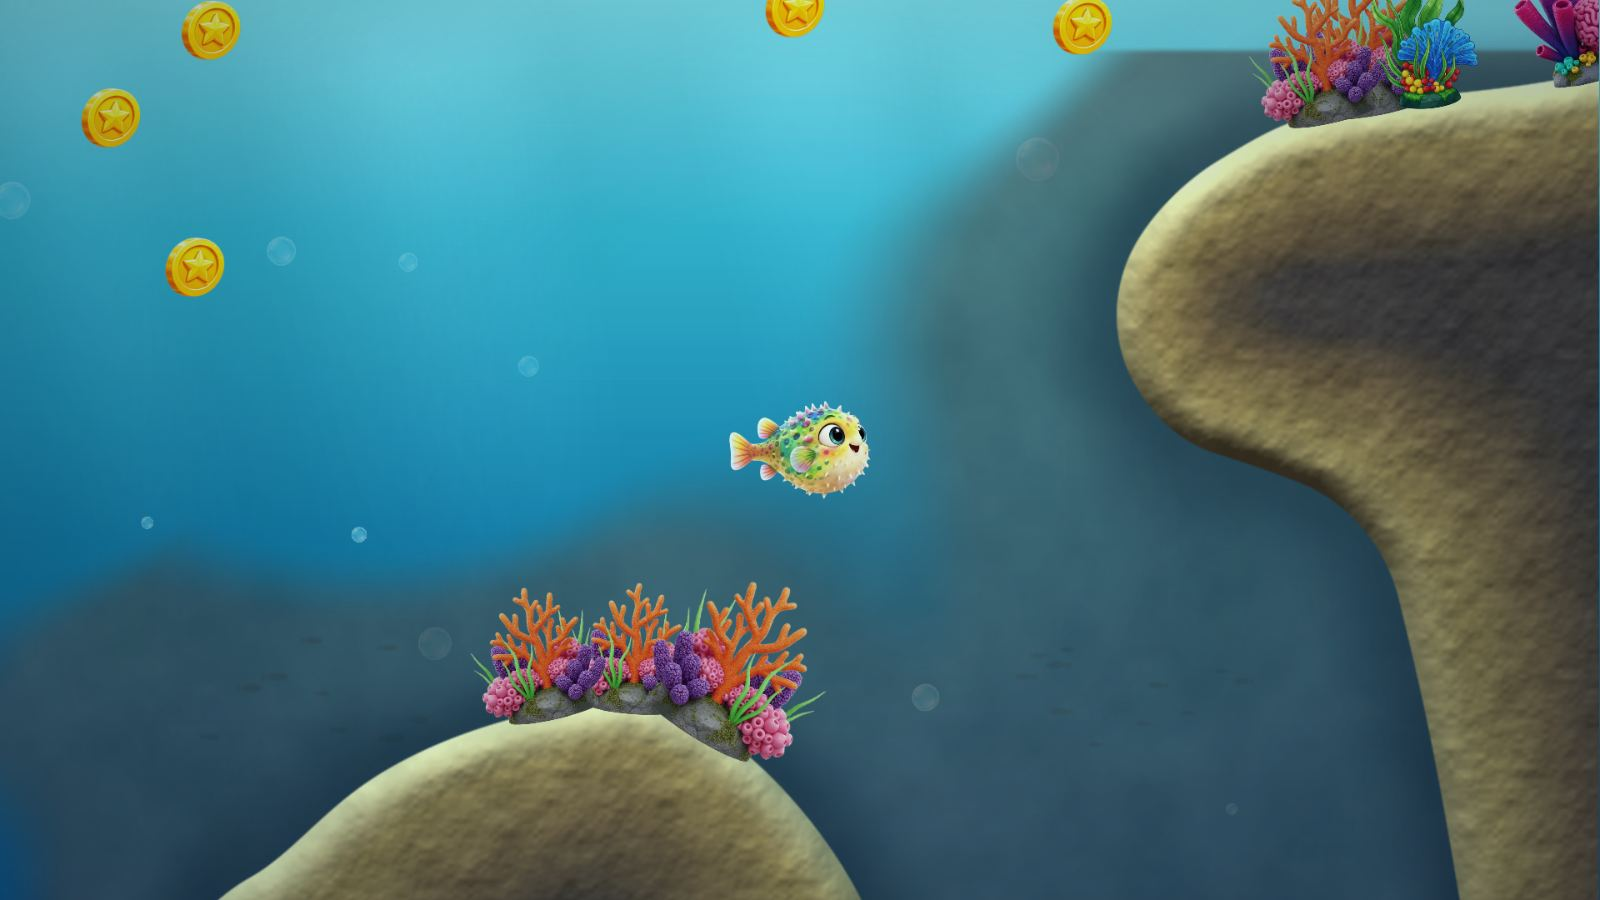
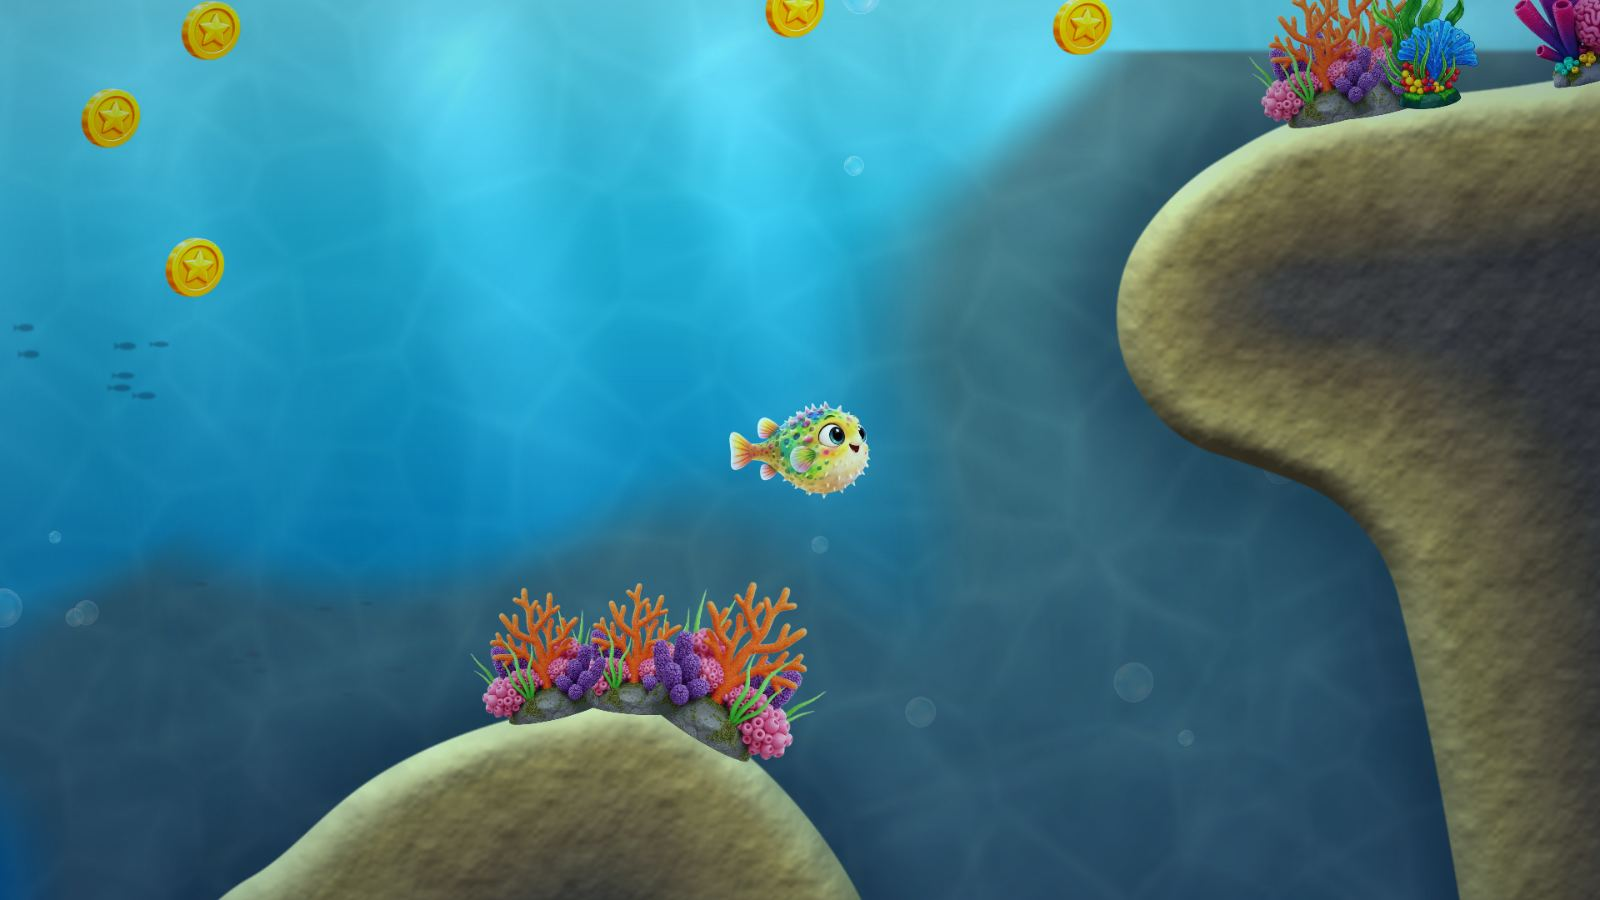
Water light: stronger sunlit shafts, caustics and a depth colour grade as one system

diff --git a/game/fx/WaterLight.js b/game/fx/WaterLight.js
@@ -1,0 +1,150 @@
+import Phaser from 'phaser';
+import { causticPattern, sunlightAt, gradeMatrix } from './causticsMath.js';
+
+/**
+ * Sunlight under water — one system for light shafts, caustics and the colour grade
+ * (gamedesign 1.1 #5, 10.11). Plain textured quads plus one camera ColorMatrix, so it
+ * runs the same on Phaser 3.90 and 4; nothing is redrawn per frame and nothing touches
+ * the HUD scene. Everything fades with depth (sunlightAt). Each effect reads one
+ * constant here: 0 switches it off.
+ *
+ *   create():  this.waterLight = new WaterLight(this)
+ *   update():  this.waterLight.update()
+ */
+export const WATER_LIGHT = {
+    shafts: 1.8,          // strength of the light shafts (0 = off)
+    shaftCount: 7,        // broad shafts behind the play plane
+    shaftNear: 3,         // thin shafts in front of the play plane (kept faint, never hide hazards)
+    caustics: 0.07,       // strength of the caustic shimmer (0 = off); open water shows only a hint
+    causticScale: 2.6,    // world size of the caustic tile relative to its 256 px texture
+    causticFade: 1500,    // caustics fade faster than the shafts: a shallow-water effect
+    grade: 1,             // depth colour grade on the camera (0 = off)
+    gradeSaturation: 0.2, // extra saturation in full sunlight
+    gradeAbsorb: 0.32,    // how much red is lost at full depth
+    fadeTo: 2600          // depth (px below the surface) where the sunlight has faded away
+};
+
+const TEX = 256;
+
+export default class WaterLight {
+    constructor(scene) {
+        this.scene = scene;
+        const W = scene.scale.width, H = scene.scale.height;
+        makeTextures(scene);
+
+        // Broad shafts behind the play plane, thin ones in front; all slanted the same way,
+        // the way sunlight comes through a rippled surface.
+        this.shafts = [];
+        const shaft = (front, i, n) => {
+            const x = (W + 400) * (i + Math.random() * 0.6) / n - 200;
+            const img = scene.add.image(x, -40, 'bd_ray').setOrigin(0.5, 0)
+                .setDisplaySize(front ? Phaser.Math.Between(70, 140) : Phaser.Math.Between(220, 460), H * Phaser.Math.FloatBetween(0.9, 1.25))
+                .setRotation(-0.22 + Phaser.Math.FloatBetween(-0.05, 0.05))
+                .setScrollFactor(0).setDepth(front ? 5.6 : -12).setBlendMode(Phaser.BlendModes.ADD);
+            img.base = front ? Phaser.Math.FloatBetween(0.05, 0.09) : Phaser.Math.FloatBetween(0.16, 0.3);
+            img.phase = Math.random() * 6.28;
+            img.baseX = x;
+            img.drift = front ? 0.12 : 0.05;   // a little parallax: near shafts slide more
+            this.shafts.push(img);
+        };
+        if (WATER_LIGHT.shafts > 0) {
+            for (let i = 0; i < WATER_LIGHT.shaftCount; i++) shaft(false, i, WATER_LIGHT.shaftCount);
+            for (let i = 0; i < WATER_LIGHT.shaftNear; i++) shaft(true, i, WATER_LIGHT.shaftNear);
+        }
+
+        // Caustics: two copies of one seamless tile at different sizes drifting apart,
+        // anchored to the world (they slide with the scene, not with the camera).
+        this.caustics = [];
+        if (WATER_LIGHT.caustics > 0) {
+            for (const [k, sx, sy] of [[1, 9, 5], [1.73, -6, 7]]) {
+                const ts = scene.add.tileSprite(0, 0, W, H, 'wl_caustic').setOrigin(0).setScrollFactor(0)
+                    .setDepth(5.4).setBlendMode(Phaser.BlendModes.ADD).setTint(0xfff3c4);
+                ts.k = k * WATER_LIGHT.causticScale;
+                ts.setTileScale(ts.k, ts.k);
+                ts.speed = { x: sx, y: sy };
+                this.caustics.push(ts);
+            }
+        }
+
+        // Colour grade on the main camera (WebGL post effect; skipped if unavailable).
+        this.grade = null;
+        const cam = scene.cameras.main;
+        if (WATER_LIGHT.grade > 0 && cam.postFX?.addColorMatrix) {
+            this.grade = cam.postFX.addColorMatrix();
+            this.lastLight = -1;
+        }
+    }
+
+    update() {
+        const scene = this.scene, cam = scene.cameras.main;
+        const W = scene.scale.width, H = scene.scale.height;
+        const t = scene.time.now / 1000;
+        // Light where the upper third of the view is: that is where shafts and caustics read.
+        const light = sunlightAt(cam.scrollY + H * 0.35, WATER_LIGHT.fadeTo);
+        const above = cam.scrollY < 0 ? Math.min(1, -cam.scrollY / (H * 0.5)) : 0;   // view partly in the sky
+
+        for (const s of this.shafts) {
+            s.x = s.baseX + Math.sin(t * 0.21 + s.phase) * 60 - ((cam.scrollX * s.drift) % (W + 400));
+            if (s.x < -260) s.x += W + 400; else if (s.x > W + 260) s.x -= W + 400;
+            s.y = Math.max(-40, -cam.scrollY - 30);   // shafts start at the water surface
+            const flicker = 0.65 + 0.35 * Math.sin(t * 0.55 + s.phase) * Math.sin(t * 0.23 + s.phase * 1.7);
+            s.setAlpha(WATER_LIGHT.shafts * s.base * flicker * light * (1 - above));
+        }
+
+        if (this.caustics.length) {
+            const a = WATER_LIGHT.caustics * sunlightAt(cam.scrollY + H * 0.35, WATER_LIGHT.causticFade) * (1 - above);
+            for (const c of this.caustics) {
+                c.setVisible(a > 0.003).setAlpha(a);
+                if (a <= 0.003) continue;
+                // World-anchored: tile offset follows the camera, plus a slow drift.
+                c.tilePositionX = (cam.scrollX + t * c.speed.x) / c.k;
+                c.tilePositionY = (cam.scrollY + t * c.speed.y) / c.k;
+            }
+        }
+
+        if (this.grade) {
+            const q = Math.round(light * 40) / 40;   // only rebuild the matrix when the light changes visibly
+            if (q !== this.lastLight) {
+                this.lastLight = q;
+                const m = gradeMatrix(q, WATER_LIGHT.gradeSaturation * WATER_LIGHT.grade, WATER_LIGHT.gradeAbsorb * WATER_LIGHT.grade);
+                // Phaser's ColorMatrix keeps offsets in 0..255.
+                this.grade.set(m.map((v, i) => (i % 5 === 4 ? v * 255 : v)));
+            }
+        }
+    }
+
+    destroy() {
+        for (const o of [...this.shafts, ...this.caustics]) o.destroy();
+        if (this.grade) this.scene.cameras.main.postFX?.remove(this.grade);
+    }
+}
+
+function makeTextures(scene) {
+    if (!scene.textures.exists('wl_caustic')) {
+        const p = causticPattern(TEX, 34, 7, 0.05);
+        const tex = scene.textures.createCanvas('wl_caustic', TEX, TEX), ctx = tex.getContext();
+        const img = ctx.createImageData(TEX, TEX);
+        for (let i = 0; i < p.length; i++) {
+            img.data[i * 4] = img.data[i * 4 + 1] = img.data[i * 4 + 2] = 255;
+            img.data[i * 4 + 3] = Math.round(255 * p[i]);
+        }
+        ctx.putImageData(img, 0, 0);
+        tex.refresh();
+    }
+    if (!scene.textures.exists('bd_ray')) {
+        // Same soft shaft as the backdrop used: bright along the middle, feathered to both sides.
+        const ray = scene.textures.createCanvas('bd_ray', 128, 256), rc = ray.getContext();
+        const img = rc.createImageData(128, 256);
+        for (let y = 0; y < 256; y++) {
+            const v = y / 255, along = Math.min(1, v * 9) * Math.pow(1 - v, 1.4);
+            for (let x = 0; x < 128; x++) {
+                const u = Math.abs(x / 127 - 0.5) * 2, across = Math.pow(Math.max(0, 1 - u * u), 2.2);
+                const i = (y * 128 + x) * 4;
+                img.data[i] = img.data[i + 1] = img.data[i + 2] = 255;
+                img.data[i + 3] = 255 * along * across;
+            }
+        }
+        rc.putImageData(img, 0, 0);
+        ray.refresh();
+    }
+}

diff --git a/game/fx/causticsMath.js b/game/fx/causticsMath.js
@@ -1,0 +1,71 @@
+// Caustic light pattern and depth grade maths (pure, unit-tested in tests/caustics.test.mjs).
+
+/** Small seeded RNG (mulberry32). */
+function rng(seed) {
+    let a = seed >>> 0;
+    return () => {
+        a = (a + 0x6d2b79f5) >>> 0;
+        let t = a;
+        t = Math.imul(t ^ (t >>> 15), t | 1);
+        t ^= t + Math.imul(t ^ (t >>> 7), t | 61);
+        return ((t ^ (t >>> 14)) >>> 0) / 4294967296;
+    };
+}
+
+/**
+ * Seamlessly tiling caustic pattern: bright thin lines along the edges of
+ * Voronoi cells (where F2 - F1 is small), the look of sunlight focused by waves.
+ * Returns intensities 0..1 in a Float32Array(size * size), row-major.
+ */
+export function causticPattern(size = 256, cells = 22, seed = 7, width = 0.075) {
+    const r = rng(seed);
+    const pts = Array.from({ length: cells }, () => [r(), r()]);
+    const out = new Float32Array(size * size);
+    for (let y = 0; y < size; y++) {
+        for (let x = 0; x < size; x++) {
+            const u = x / size, v = y / size;
+            let f1 = Infinity, f2 = Infinity;
+            for (const [px, py] of pts) {
+                // Wrap-around distance makes the tile seamless.
+                let dx = Math.abs(u - px); if (dx > 0.5) dx = 1 - dx;
+                let dy = Math.abs(v - py); if (dy > 0.5) dy = 1 - dy;
+                const d = Math.sqrt(dx * dx + dy * dy);
+                if (d < f1) { f2 = f1; f1 = d; } else if (d < f2) f2 = d;
+            }
+            const e = Math.min(1, (f2 - f1) / width);
+            out[y * size + x] = Math.pow(1 - e * e * (3 - 2 * e), 1.6);   // 1 on the edge, soft falloff
+        }
+    }
+    return out;
+}
+
+/**
+ * How strong surface light is at a depth (world y; the water surface is at 0).
+ * Full just below the surface, gone by `fadeTo`. Above water: 0.
+ */
+export function sunlightAt(y, fadeTo = 2600) {
+    if (y < 0) return 0;
+    const k = Math.max(0, 1 - y / fadeTo);
+    return k * k * (3 - 2 * k);
+}
+
+/**
+ * 4x5 colour matrix (row-major, offsets in 0..1) for the underwater grade:
+ * near the surface a gentle saturation lift (the lookdev is saturated and sunlit),
+ * deeper the red channel is absorbed first and everything leans blue-green.
+ * `light` = sunlightAt(depth), `sat` = extra saturation at full light.
+ */
+export function gradeMatrix(light, sat = 0.18, absorb = 0.35) {
+    const s = 1 + sat * light;                       // saturation factor
+    const lr = 0.2126, lg = 0.7152, lb = 0.0722;     // luminance weights
+    const sr = (1 - s) * lr, sg = (1 - s) * lg, sb = (1 - s) * lb;
+    const dark = 1 - light;
+    const red = 1 - absorb * dark;                   // reds fade first with depth
+    const green = 1 - absorb * 0.35 * dark;
+    return [
+        (sr + s) * red, sg * red, sb * red, 0, 0,
+        sr * green, (sg + s) * green, sb * green, 0, 0,
+        sr, sg, sb + s, 0, 0.02 * dark,              // a touch of blue lift in the deep
+        0, 0, 0, 1, 0
+    ];
+}

diff --git a/scenes/MainScene.js b/scenes/MainScene.js
@@ -7,6 +7,7 @@ import LevelGenerator, { LEVEL } from '../game/level/LevelGenerator.js';
 import { BIOMES, biomeIndexAt, biomeBlendAt, mixColor, spotFor } from '../game/level/biomes.js';
 import { UNSTICK, popOut, wedged, Stillness } from '../game/level/unstick.js';
 import Backdrop from '../game/level/Backdrop.js';
+import WaterLight from '../game/fx/WaterLight.js';
 import { makeController, CONTROL_SCHEMES } from '../game/controls/index.js';
 import { getCharacter, loadSelectedId } from '../game/characters.js';
 import { WaterSurface } from '../game/level/surface.js';
@@ -58,6 +59,7 @@ export default class MainScene extends Phaser.Scene {
         this.surface = new WaterSurface();   // spring columns: splashes make ripples that travel
         this.hitStop = 0;                    // ms the action freezes after a hit (impact feel)
         this.backdrop = new Backdrop(this, LEVEL.maxDepth);
+        this.waterLight = new WaterLight(this);   // light shafts, caustics, depth grade
         // What has been collected stays collected (per chunk bitfields, see worldState.js).
         // Playing together, the room has its own memory, separate from the solo journey.
         this.world = new WorldState(window.localStorage, Multiplayer.worldKey(this.registry) || 'sll_world', `${LEVEL.seed}.${LEVEL.version}`);
@@ -510,6 +512,7 @@ export default class MainScene extends Phaser.Scene {
         this.level.update(this.camX, this.camY);
         this.level.animate(time / 1000, view, speed);
         this.backdrop.update(this.camX, this.camY, this.camX - prevX, this.camY - prevY, this.surface);
+        this.waterLight.update();
         this.collect();
         this.maxDepth = Math.max(this.maxDepth, this.depthMeters());
         const t2 = performance.now();

diff --git a/game/level/Backdrop.js b/game/level/Backdrop.js
@@ -51,17 +51,7 @@ export default class Backdrop {
             this.schools.push(school);
         }
 
-        this.rays = [];
-        for (let i = 0; i < 6; i++) {
-            const x = (W / 6) * i + Phaser.Math.Between(-60, 60);
-            // A soft shaft of light: feathered along both sides, fading in below the surface and out with depth.
-            const ray = scene.add.image(x, -20, 'bd_ray').setOrigin(0.5, 0).setDisplaySize(Phaser.Math.Between(240, 420), H * Phaser.Math.FloatBetween(0.85, 1.1))
-                .setRotation(-0.2 + Phaser.Math.FloatBetween(-0.04, 0.04)).setScrollFactor(0).setDepth(-12).setBlendMode(Phaser.BlendModes.ADD);
-            ray.baseAlpha = Phaser.Math.FloatBetween(0.1, 0.2);
-            ray.phase = Math.random() * 6.28;
-            ray.baseX = x;
-            this.rays.push(ray);
-        }
+        // Light shafts live in game/fx/WaterLight.js (one system with caustics and the grade).
 
         this.bubbles = [];
         for (let i = 0; i < 16; i++) {
@@ -124,10 +114,6 @@ export default class Backdrop {
                 f.body.setScale(sc.dir * f.body.base.sx * (1 + Math.sin(t * 9 + f.phase) * 0.12), f.body.base.sy);   // tail beat
                 f.body.setVisible(camY + f.body.y > 60).setAlpha(f.body.base.alpha * depthFade);
             }
-        }
-        for (const ray of this.rays) {
-            ray.x = ray.baseX + Math.sin(t * 0.25 + ray.phase) * 70 - (camX * 0.05) % 40;
-            ray.setAlpha(ray.baseAlpha * (0.6 + 0.4 * Math.sin(t * 0.6 + ray.phase)) * Math.max(0, 1 - depth * 2.2));
         }
         for (const b of this.bubbles) {
             b.y -= b.speed + dy * 0.5;
